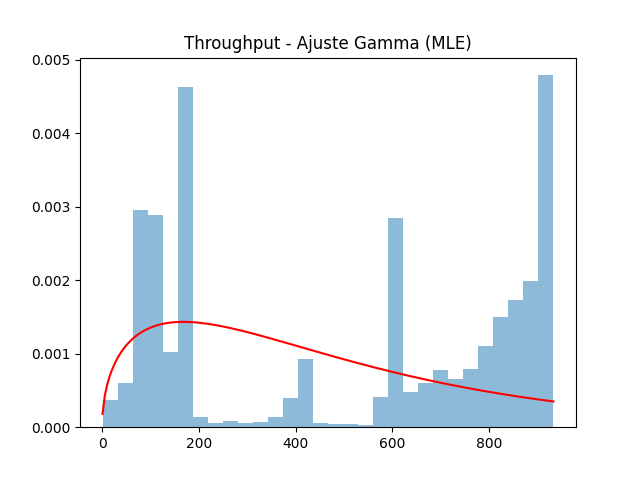
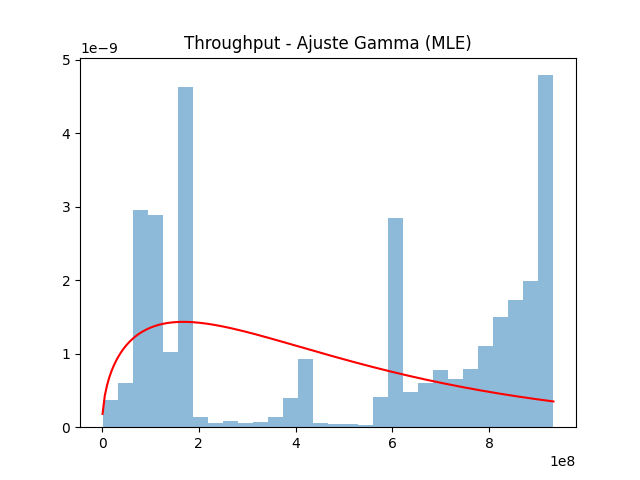
Consertando as unidades

diff --git a/main.py b/main.py
@@ -33,12 +33,12 @@ df["timestamp"] = pd.to_datetime(df["timestamp"], errors="coerce")
 if "packet_loss_percent" in df.columns:
     df["packet_loss"] = df["packet_loss_percent"] / 100.0
 
-# converter throughput em Mbps
-df["download_mbps"] = df["download_throughput_bps"] / 1e6
-df["upload_mbps"] = df["upload_throughput_bps"] / 1e6
+# manter throughput em bps
+df["download_bps"] = df["download_throughput_bps"]
+df["upload_bps"] = df["upload_throughput_bps"]
 
 # limpeza
-num_cols = ["download_mbps", "upload_mbps", "rtt_download_sec", "rtt_upload_sec", "packet_loss"]
+num_cols = ["download_bps", "upload_bps", "rtt_download_sec", "rtt_upload_sec", "packet_loss"]
 for c in num_cols:
     df[c] = pd.to_numeric(df[c], errors="coerce")
 df = df.dropna(subset=num_cols)
@@ -62,7 +62,7 @@ def resumo_estatistico(series):
         "max": series.max()
     }
 
-vars_interesse = ["download_mbps", "upload_mbps", "rtt_download_sec", "rtt_upload_sec", "packet_loss"]
+vars_interesse = ["download_bps", "upload_bps", "rtt_download_sec", "rtt_upload_sec", "packet_loss"]
 
 # estatísticas gerais
 estatisticas = {v: resumo_estatistico(df[v]) for v in vars_interesse}
@@ -84,7 +84,7 @@ for v in vars_interesse:
     plt.savefig(f"outputs/figuras/hist_{v}.png")
     plt.close()
 
-sns.scatterplot(x="rtt_download_sec", y="download_mbps", data=df)
+sns.scatterplot(x="rtt_download_sec", y="download_bps", data=df)
 plt.title("Scatter RTT vs Throughput (download)")
 plt.savefig("outputs/figuras/scatter_rtt_throughput.png")
 plt.close()
@@ -107,8 +107,8 @@ plt.savefig("outputs/figuras/mle_rtt.png")
 plt.close()
 
 # --- Throughput (Gamma) ---
-th = df["download_mbps"].dropna()
-th = th[th > 0]  # 🔹 remove valores negativos ou zero
+th = df["download_bps"].dropna()
+th = th[th > 0]
 k_mle, loc, scale_mle = stats.gamma.fit(th, floc=0)
 
 print(f"Throughput Gamma MLE: shape={k_mle:.4f}, scale={scale_mle:.4f}, rate={1/scale_mle:.4f}")
@@ -129,7 +129,6 @@ print(f"Perda (MLE) p={p_mle:.6f}")
 # 5. INFERÊNCIA BAYESIANA (analítica)
 # ============================================================
 
-# Dividir treino e teste
 train, test = train_test_split(df, test_size=0.3, random_state=42)
 
 # ----- (1) Normal–Normal (RTT) -----
@@ -146,7 +145,6 @@ media_pred_rtt = mu_n
 var_pred_rtt = sigma2 + tau_n2
 print(f"\nPosterior RTT: mu_n={mu_n:.4f}, var_n={tau_n2:.6f}")
 
-# comparação com dados de teste
 mean_test_rtt = test["rtt_download_sec"].mean()
 print(f"Média teste RTT={mean_test_rtt:.4f}, preditiva={media_pred_rtt:.4f}")
 
@@ -163,7 +161,7 @@ p_post_mean = an / (an + bn)
 print(f"\nPosterior Beta-Binomial: a_n={an:.1f}, b_n={bn:.1f}, média posterior={p_post_mean:.6f}")
 
 # ----- (3) Gama–Gama (Throughput) -----
-y_train = train["download_mbps"].dropna()
+y_train = train["download_bps"].dropna()
 n = len(y_train)
 k = k_mle
 a0, b0 = 1.0, 1.0
